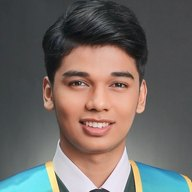
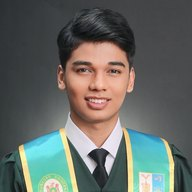
Today's batch, checked on staging
- full name: Miguel Irfan Hameed, in the header, messages and sidebar
- Gmail icon for the email link; Instagram added to Apps
- small chat icons use the same crop as the big photo, versioned so browsers refetch it
- one-word channel names: Work, About, Skills, Experience, Proof, Contact
- Work opens as its own view, with a back button
- Files tab and Live sites section, hidden until they have content

diff --git a/script.js b/script.js
@@ -15,26 +15,29 @@
     : esc(t);
 
   // ---------- channels (in the order they appear in the conversation) ----------
+  // Order agreed with Miguel: Work opens as its own view; the rest read as one scroll.
   const CHANNELS = [
-    { id: 'selected-work', title: 'selected-work', sub: 'Results from systems I built' },
-    { id: 'experience', title: 'experience', sub: 'Where I have worked' },
-    { id: 'skills', title: 'skills', sub: 'Tools and strengths' },
-    { id: 'proof', title: 'proof', sub: 'Certifications, training and projects' },
-    ...(S.testimonials.length >= 2 ? [{ id: 'testimonials', title: 'testimonials', sub: 'What people say' }] : []),
-    { id: 'about', title: 'about', sub: 'My story' },
-    { id: 'contact', title: 'contact', sub: 'Get in touch' },
+    { id: 'selected-work', title: 'Work', sub: 'Results from systems I built', view: true },
+    { id: 'about', title: 'About', sub: 'My story' },
+    { id: 'skills', title: 'Skills', sub: 'Tools and strengths' },
+    { id: 'experience', title: 'Experience', sub: 'Where I have worked' },
+    { id: 'proof', title: 'Proof', sub: 'Certifications, training and projects' },
+    ...(S.testimonials.length >= 2 ? [{ id: 'testimonials', title: 'Testimonials', sub: 'What people say' }] : []),
+    { id: 'contact', title: 'Contact', sub: 'Get in touch' },
   ];
 
   // Small app icons for the sidebar, like app tiles in a chat workspace.
   const ICONS = {
     linkedin: '<svg viewBox="0 0 24 24" aria-hidden="true"><path d="M6.94 8.5H3.56V20h3.38V8.5zM5.25 3.5a1.96 1.96 0 1 0 0 3.92 1.96 1.96 0 0 0 0-3.92zM20.44 13.2c0-3.1-1.65-4.94-4.3-4.94-1.94 0-2.8 1.07-3.29 1.82V8.5H9.48V20h3.37v-5.7c0-1.5.28-2.96 2.14-2.96 1.83 0 1.86 1.72 1.86 3.06V20h3.38l.01-6.8z"/></svg>',
-    email: '<svg viewBox="0 0 24 24" aria-hidden="true"><path d="M3 6.5A1.5 1.5 0 0 1 4.5 5h15A1.5 1.5 0 0 1 21 6.5v11a1.5 1.5 0 0 1-1.5 1.5h-15A1.5 1.5 0 0 1 3 17.5v-11zm2 .9v9.6h14V7.4l-7 5.1-7-5.1zM6.7 7h10.6L12 10.9 6.7 7z"/></svg>',
+    email: '<svg viewBox="0 0 24 24" aria-hidden="true"><path fill="#ffffff" d="M3 6h18v12H3z"/><path fill="#4285F4" d="M20.4 19h-2.1V9.9L12 14.3 5.7 9.9V19H3.6A1.6 1.6 0 0 1 2 17.4V6.6C2 5.7 2.7 5 3.6 5h.7L12 10.6 19.7 5h.7c.9 0 1.6.7 1.6 1.6v10.8c0 .9-.7 1.6-1.6 1.6z"/><path fill="#34A853" d="M2 17.4V8.1l3.7 2.6V19H3.6A1.6 1.6 0 0 1 2 17.4z"/><path fill="#FBBC04" d="M22 17.4c0 .9-.7 1.6-1.6 1.6h-2.1v-8.3L22 8.1z"/><path fill="#EA4335" d="M2 6.6C2 5.7 2.7 5 3.6 5h.7L12 10.6 19.7 5h.7c.9 0 1.6.7 1.6 1.6v1.5L12 14.9 2 8.1z"/></svg>',
     cv: '<svg viewBox="0 0 24 24" aria-hidden="true"><path d="M6 2.5h8.5L19 7v13a1.5 1.5 0 0 1-1.5 1.5h-11A1.5 1.5 0 0 1 5 20V4a1.5 1.5 0 0 1 1-1.5zm1 2V19.5h10V8h-4V4.5H7zm2 7h6v1.6H9v-1.6zm0 3.4h6v1.6H9v-1.6z"/></svg>',
+    instagram: '<svg viewBox="0 0 24 24" aria-hidden="true"><path d="M12 2.2c3.2 0 3.6 0 4.9.07 1.2.05 1.8.25 2.2.42.6.22 1 .48 1.4.9.4.4.7.8.9 1.4.17.4.37 1 .42 2.2.06 1.3.07 1.7.07 4.9s0 3.6-.07 4.9c-.05 1.2-.25 1.8-.42 2.2-.22.6-.48 1-.9 1.4-.4.4-.8.7-1.4.9-.4.17-1 .37-2.2.42-1.3.06-1.7.07-4.9.07s-3.6 0-4.9-.07c-1.2-.05-1.8-.25-2.2-.42-.6-.22-1-.48-1.4-.9-.4-.4-.7-.8-.9-1.4-.17-.4-.37-1-.42-2.2C2.2 15.6 2.2 15.2 2.2 12s0-3.6.07-4.9c.05-1.2.25-1.8.42-2.2.22-.6.48-1 .9-1.4.4-.4.8-.7 1.4-.9.4-.17 1-.37 2.2-.42C8.4 2.2 8.8 2.2 12 2.2zm0 1.8c-3.1 0-3.5 0-4.8.07-1.1.05-1.7.24-2.1.4-.5.2-.9.44-1.3.84-.4.4-.64.8-.84 1.3-.16.4-.35 1-.4 2.1C2.5 9.5 2.5 9.9 2.5 13s0 3.5.07 4.8c.05 1.1.24 1.7.4 2.1.2.5.44.9.84 1.3.4.4.8.64 1.3.84.4.16 1 .35 2.1.4 1.3.07 1.7.07 4.8.07s3.5 0 4.8-.07c1.1-.05 1.7-.24 2.1-.4.5-.2.9-.44 1.3-.84.4-.4.64-.8.84-1.3.16-.4.35-1 .4-2.1.07-1.3.07-1.7.07-4.8s0-3.5-.07-4.8c-.05-1.1-.24-1.7-.4-2.1-.2-.5-.44-.9-.84-1.3-.4-.4-.8-.64-1.3-.84-.4-.16-1-.35-2.1-.4C15.5 4 15.1 4 12 4z"/><path d="M12 7.2A4.8 4.8 0 1 0 12 16.8 4.8 4.8 0 0 0 12 7.2zm0 7.9a3.1 3.1 0 1 1 0-6.2 3.1 3.1 0 0 1 0 6.2z"/><circle cx="17" cy="7" r="1.15"/></svg>',
     notes: '<svg viewBox="0 0 24 24" aria-hidden="true"><path d="M5 4h14v2H5zm0 5h14v2H5zm0 5h9v2H5z"/></svg>',
   };
   const APPS = [
     { label: 'LinkedIn', href: P.linkedin, ext: true, icon: 'linkedin' },
     { label: 'Email', href: 'mailto:' + P.email, icon: 'email' },
+    ...(P.instagram ? [{ label: 'Instagram', href: P.instagram, ext: true, icon: 'instagram' }] : []),
     ...(S.showCv === false ? [] : [{ label: 'CV (PDF)', href: P.cv, ext: true, icon: 'cv' }]),
     ...(S.notes ? [{ label: 'Notes', href: S.notes, ext: true, icon: 'notes' }] : []),
   ];
@@ -229,7 +232,32 @@
 
   const builders = { 'selected-work': selectedWork, experience, skills, proof, testimonials, about, contact };
   const feed = $('#feed');
-  feed.innerHTML = intro() + CHANNELS.map((c) => builders[c.id](c)).join('');
+  const scrollChannels = CHANNELS.filter((c) => !c.view);
+  feed.innerHTML = intro() + scrollChannels.map((c) => builders[c.id](c)).join('');
+
+  // Channels marked `view: true` open on their own, like a separate page (after baileyelith.com).
+  const views = {};
+  CHANNELS.filter((c) => c.view).forEach((c) => {
+    const panel = document.createElement('div');
+    panel.className = 'channel-view';
+    panel.hidden = true;
+    panel.innerHTML = `<button class="view-back" type="button" data-view-back>← Back to messages</button>` + builders[c.id](c);
+    const heading = panel.querySelector('.channel-divider'); // the header already names the channel
+    if (heading) { heading.classList.add('sr-only'); }
+    feed.insertAdjacentElement('afterend', panel);
+    views[c.id] = panel;
+  });
+  let openView = null;
+  function showView(id) {
+    openView = id;
+    feed.hidden = !!id;
+    Object.entries(views).forEach(([k, el]) => {
+      el.hidden = k !== id;
+      if (k === id) el.querySelectorAll('.reveal').forEach((r) => r.classList.add('in'));
+    });
+    if (id) { setActive(id); $('.pane').scrollTop = 0; }
+  }
+  $$('[data-view-back]').forEach((b) => b.addEventListener('click', () => { showView(null); setActive('intro'); }));
 
   // Files tab + Messages tab, shown only when there are files to show
   if (S.files && S.files.length) {
@@ -288,9 +316,19 @@
     $$('.rail-btn[data-rail]').forEach((b) => b.classList.toggle('is-active',
       c ? (c.id === 'selected-work' ? b.dataset.rail === 'work' : false) : b.dataset.rail === 'home'));
   }
+  $$('a[href^="#"]').forEach((link) => {
+    const id = link.getAttribute('href').slice(1);
+    const isView = CHANNELS.some((c) => c.view && c.id === id);
+    link.addEventListener('click', (e) => {
+      if (isView) { e.preventDefault(); showView(id); }
+      else if (openView) { showView(null); }
+    });
+  });
+
   const sections = $$('[data-section]');
   let current = 'intro';
   const spy = new IntersectionObserver((entries) => {
+    if (openView) return; // the open view sets the title itself
     entries.forEach((e) => { if (e.isIntersecting) current = e.target.dataset.section; });
     setActive(current);
   }, { rootMargin: '0px 0px -75% 0px', threshold: 0 });

diff --git a/styles.css b/styles.css
@@ -208,6 +208,16 @@ svg { width: 20px; height: 20px; fill: currentColor; }
 .side-status i, .dot-good { width: 8px; height: 8px; border-radius: 50%; background: var(--good); display: inline-block; }
 
 /* section headings with a fold arrow, after baileyelith.com: ▾ open, ▸ closed */
+/* a channel that opens on its own, like a separate page */
+.channel-view { flex: 1; overflow-y: auto; padding: 0 0 60px; }
+.view-back {
+  display: inline-flex; align-items: center; gap: 6px;
+  margin: 18px 0 0 28px; padding: 8px 14px;
+  border-radius: 99px; border: 1px solid var(--line);
+  color: var(--muted); font-weight: 600; font-size: 0.86rem;
+}
+.view-back:hover { color: var(--ink); border-color: var(--accent); }
+
 /* Messages / Files tabs and the file gallery */
 .pane-tabs { display: flex; gap: 4px; padding: 8px 28px 0; border-bottom: 1px solid var(--line); background: var(--app); }
 .pane-tab {
@@ -276,8 +286,8 @@ svg { width: 20px; height: 20px; fill: currentColor; }
 .app-icon { display: grid; place-items: center; width: 20px; height: 20px; border-radius: 6px; flex: none; }
 .app-icon svg { width: 14px; height: 14px; fill: #fff; }
 .app-linkedin { background: #0a66c2; }   /* LinkedIn's own blue */
-.app-email { background: var(--accent); }
-.app-email svg { fill: var(--accent-ink); }
+.app-email { background: #fff; }            /* Gmail's own colours need a white tile */
+.app-instagram { background: linear-gradient(45deg, #f9ce34 5%, #ee2a7b 50%, #6228d7 95%); }
 .app-cv { background: #e5484d; }        /* PDF red */
 .app-notes { background: var(--accent); }
 .side-link .ext { margin-left: auto; color: var(--muted); font-size: 0.72rem; }
@@ -555,6 +565,7 @@ svg { width: 20px; height: 20px; fill: currentColor; }
 /* ---------------- phone ---------------- */
 /* The intro message IS the first screen. The channel list slides in from a button. */
 @media (max-width: 767px) {
+  .view-back { margin-left: 16px; }
   .pane-tabs { padding: 6px 16px 0; }
   .files-panel { padding: 16px 16px 48px; }
   .role-head { grid-template-columns: 36px minmax(0, 1fr); gap: 10px; align-items: start; }

diff --git a/content.js b/content.js
@@ -11,7 +11,7 @@ window.SITE = {
 
   person: {
     name: 'Miguel Irfan Hameed',
-    shortName: 'Miguel Hameed',
+    shortName: 'Miguel Irfan Hameed', // what the header and every message shows
     role: 'Marketing Operations Specialist', // Miguel's main target (22 Sep); Technical Operations is the second track
     // Story line chosen by Miguel (22 Sep), shown two-tone (after alicezhao.work): the start in grey, the rest in full colour.
     storyStart: 'Grounded in science, fluent in data,',
@@ -21,10 +21,11 @@ window.SITE = {
     email: 'miguelhameed@gmail.com',
     linkedin: 'https://www.linkedin.com/in/miguelhameed',
     linkedinLabel: 'linkedin.com/in/miguelhameed',
+    instagram: 'https://www.instagram.com/miggybop/', // set to null to take it off the site
     cv: 'cv.pdf',
     motto: "I get closer, fix what's broken, and keep things moving.", // chosen by Miguel 22 Sep
     headshot: 'images/headshot.jpg', // Miguel's graduation portrait (22 Sep), for now; studio headshot coming
-    avatar: 'images/headshot-avatar.jpg', // small chat icons: face crop of his portrait (28 Sep)
+    avatar: 'images/headshot-avatar.jpg?v=2', // small chat icons: same crop as the big photo (28 Sep). Bump ?v= when the file changes so browsers refetch it.
   },
 
   // What the intro message lists under "what I do".

diff --git a/index.html b/index.html
@@ -80,7 +80,7 @@
 
         <button class="side-label" type="button" aria-expanded="true" aria-controls="dm-list" data-fold><svg class="caret" viewBox="0 0 24 24" aria-hidden="true"><path d="M6 8.5h12l-6 7.5z"/></svg>Direct messages</button>
         <ul class="side-list" id="dm-list">
-          <li><a class="side-link" href="#intro" data-channel="intro"><span class="side-avatar" data-headshot></span> Miguel Hameed</a></li>
+          <li><a class="side-link" href="#intro" data-channel="intro"><span class="side-avatar" data-headshot></span> Miguel Irfan Hameed</a></li>
         </ul>
 
         <button class="side-label" type="button" aria-expanded="true" aria-controls="app-list" data-fold><svg class="caret" viewBox="0 0 24 24" aria-hidden="true"><path d="M6 8.5h12l-6 7.5z"/></svg>Apps</button>
